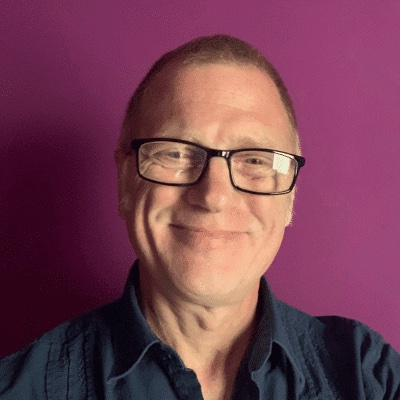
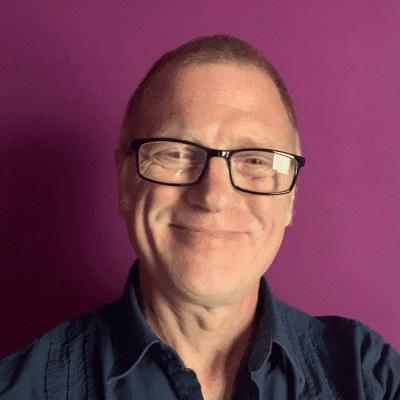
Crop white edge off headshot, revert Pricing header, enlarge About header

diff --git a/src/App.jsx b/src/App.jsx
@@ -205,7 +205,7 @@ function Pricing() {
     <section className="section">
       <div className="container">
         <div className="site-card">
-          <h2 className="card-heading" style={{ fontSize: 'clamp(40.25px, 5.03vw, 57.5px)' }}>Pricing Made Easy</h2>
+          <h2 className="card-heading" style={{ fontSize: 'clamp(40.25px, 5.03vw, 57.5px)' }}>Pricing</h2>
           <div className="step-stack" style={{ marginTop: '-10px' }}>
             {tiers.map(tier => (
               <div key={tier.title} className="step-item">
@@ -228,7 +228,7 @@ function About() {
     <section className="section">
       <div className="container">
         <div className="site-card">
-          <h2 className="card-heading" style={{ fontSize: 'clamp(40.25px, 5.03vw, 57.5px)' }}>About</h2>
+          <h2 className="card-heading" style={{ fontSize: 'clamp(44.25px, 5.53vw, 63.25px)' }}>About</h2>
           <img
             src="/david.png"
             alt="David Peterson, founder of FranklinAI"